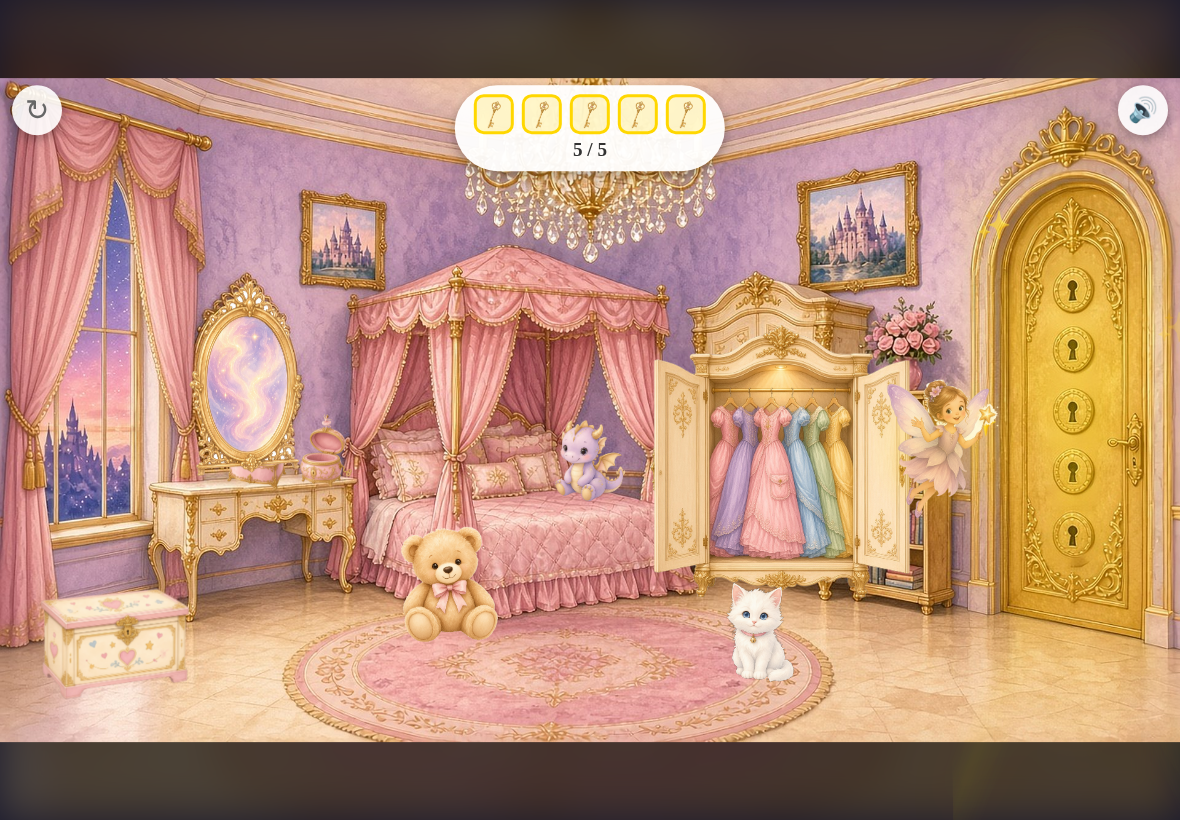
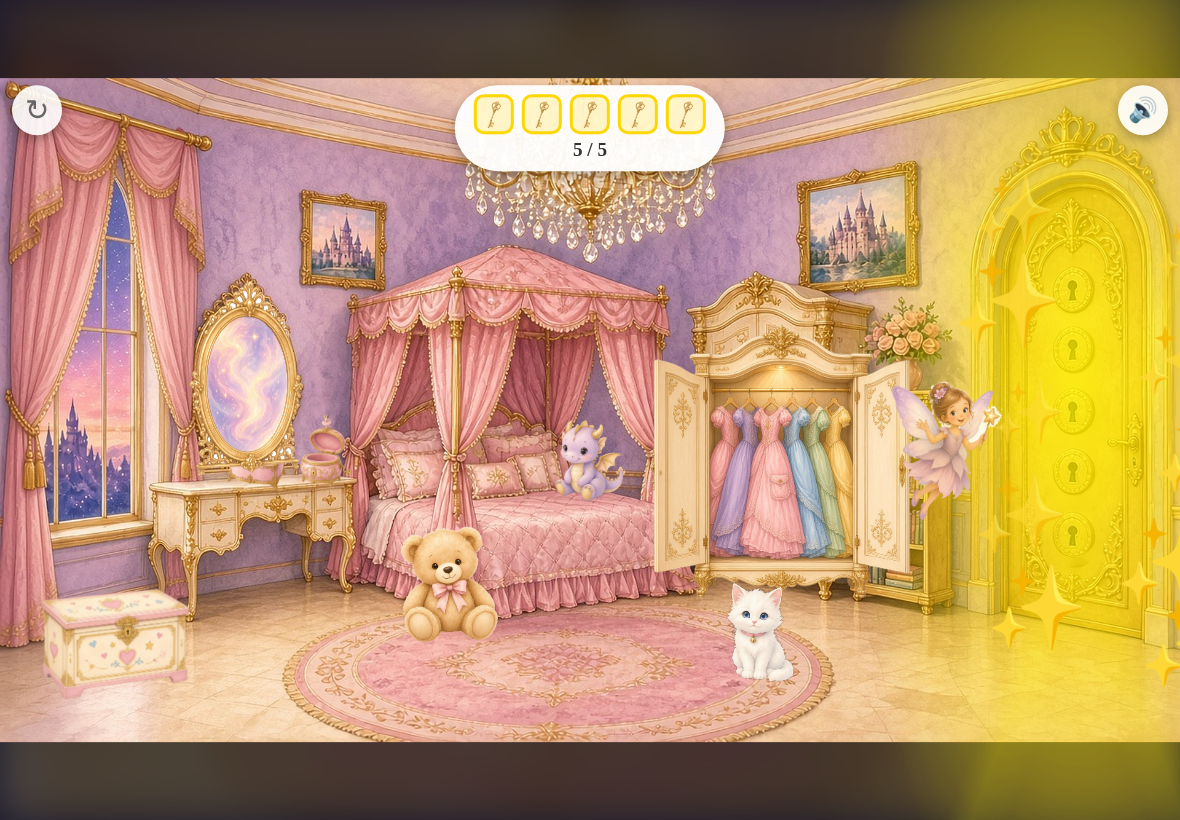
Enhance door glow visibility and fix 0.5s tap regression
Door glow improvements:
- Move radial bloom from z-index -2 to 14 (above bg, below door at z:15)
- Increase bloom size to 280% with more intense gradient (0.7 to 0 opacity)
- Boost brightness filter animation (1.25-1.6 vs 1.15-1.3)
- Enlarge drop-shadow halo (40-70px vs 20-30px)
- Make light rays 30% wider and 2x more opaque
- Scale pulse increased to 1.08 (from 1.04)
- Low point opacity now ~45% of peak (was ~57%)
- Add 10 large sparkle sprites (3-4.2rem) with staggered timing
- Glow now highly visible from across room at peak

Door tap timing fix:
- Update handleDoorClick to always set pendingDoorRef when totalKeys >= 5
- Add multiple pendingDoorRef checks in triggerDoorGlow (before fairy flight, during flight, after landing)
- Ensures early taps (including 0.5s) are remembered and processed
- Update test to wait for .glow-pulse class before starting timing countdown
- All timing tests now pass: 0.5s, 1s, 3s, 14s, muted

Screenshots:
- Crop door-glow-peak.png and door-glow-low.png to right third (393x820)
- Easier to judge glow intensity in cropped views

Changed region(s): [[0.7322, 0.0, 1.0, 1.0]]

diff --git a/game/src/components/GameScene.tsx b/game/src/components/GameScene.tsx
@@ -273,16 +273,41 @@ function GameScene({ progress, setProgress, onComplete }: GameSceneProps) {
     setDoorGlowing(true);
     audioManager.playSound('audio/sfx/door-glow-loop.mp3', true);
     
+    // Check for early door tap before fairy flies
+    if (pendingDoorRef.current && !unlockingRef.current) {
+      pendingDoorRef.current = false;
+      unlockDoor();
+      return;
+    }
+    
     // Start fairy flying to door after a brief moment
     await new Promise(resolve => setTimeout(resolve, 2000));
     setFairyCheer(false);
     setFairyFlyingToDoor(true);
     audioManager.playSound('audio/sfx/sparkle.mp3');
     
+    // Check for door tap during fairy flight
+    if (pendingDoorRef.current && !unlockingRef.current) {
+      pendingDoorRef.current = false;
+      // Let fairy finish flying
+      await new Promise(resolve => setTimeout(resolve, 1500));
+      setFairyFlyingToDoor(false);
+      setFairyAtDoor(true);
+      unlockDoor();
+      return;
+    }
+    
     // Wait for fairy to reach door (1.5s animation)
     await new Promise(resolve => setTimeout(resolve, 1500));
     setFairyFlyingToDoor(false);
     setFairyAtDoor(true);
+    
+    // Check again after fairy lands
+    if (pendingDoorRef.current && !unlockingRef.current) {
+      pendingDoorRef.current = false;
+      unlockDoor();
+      return;
+    }
     
     // Wait a bit more for total 6s (to let 5th-key praise finish)
     await new Promise(resolve => setTimeout(resolve, 2500));
@@ -573,11 +598,17 @@ function GameScene({ progress, setProgress, onComplete }: GameSceneProps) {
   const handleDoorClick = async () => {
     recordInteraction();
     
-    if (progressRef.current.keysFound.length === 5) {
-      await unlockDoor();
-    } else if (progressRef.current.keysFound.length + keysInFlightRef.current >= 5) {
-      // 5th key is still flying to the counter: open the door as soon as it lands
+    const totalKeys = progressRef.current.keysFound.length + keysInFlightRef.current;
+    
+    if (totalKeys >= 5) {
+      // Remember this tap - if unlocking can't start yet, triggerDoorGlow will handle it
       pendingDoorRef.current = true;
+      
+      // Try to unlock immediately if ready
+      if (progressRef.current.keysFound.length === 5 && !unlockingRef.current) {
+        pendingDoorRef.current = false;
+        await unlockDoor();
+      }
     } else {
       // Skip speech during intro
       if (introRunningRef.current) return;
@@ -890,48 +921,16 @@ function GameScene({ progress, setProgress, onComplete }: GameSceneProps) {
         {/* Sparkles around door when glowing */}
         {doorGlowing && (
           <>
-            <div 
-              className="door-sparkle"
-              style={{
-                position: 'absolute',
-                left: '83%',
-                top: '20%',
-                fontSize: '1.5rem',
-                animation: 'sparkle-twinkle 1.2s ease-in-out infinite',
-                pointerEvents: 'none',
-                zIndex: 100,
-              }}
-            >
-              ✨
-            </div>
-            <div 
-              className="door-sparkle"
-              style={{
-                position: 'absolute',
-                left: '98%',
-                top: '35%',
-                fontSize: '1.8rem',
-                animation: 'sparkle-twinkle 1.5s ease-in-out 0.3s infinite',
-                pointerEvents: 'none',
-                zIndex: 100,
-              }}
-            >
-              ✨
-            </div>
-            <div 
-              className="door-sparkle"
-              style={{
-                position: 'absolute',
-                left: '82%',
-                top: '50%',
-                fontSize: '1.3rem',
-                animation: 'sparkle-twinkle 1.8s ease-in-out 0.6s infinite',
-                pointerEvents: 'none',
-                zIndex: 100,
-              }}
-            >
-              ✨
-            </div>
+            <div className="door-sparkle" style={{ position: 'absolute', left: '83%', top: '15%', fontSize: '3.5rem', animation: 'sparkle-twinkle 1.2s ease-in-out 0s infinite', pointerEvents: 'none', zIndex: 100 }}>✨</div>
+            <div className="door-sparkle" style={{ position: 'absolute', left: '98%', top: '22%', fontSize: '3rem', animation: 'sparkle-twinkle 1.5s ease-in-out 0.15s infinite', pointerEvents: 'none', zIndex: 100 }}>✨</div>
+            <div className="door-sparkle" style={{ position: 'absolute', left: '82%', top: '28%', fontSize: '4rem', animation: 'sparkle-twinkle 1.3s ease-in-out 0.3s infinite', pointerEvents: 'none', zIndex: 100 }}>✨</div>
+            <div className="door-sparkle" style={{ position: 'absolute', left: '97%', top: '38%', fontSize: '3.2rem', animation: 'sparkle-twinkle 1.7s ease-in-out 0.45s infinite', pointerEvents: 'none', zIndex: 100 }}>✨</div>
+            <div className="door-sparkle" style={{ position: 'absolute', left: '84%', top: '45%', fontSize: '3.8rem', animation: 'sparkle-twinkle 1.4s ease-in-out 0.6s infinite', pointerEvents: 'none', zIndex: 100 }}>✨</div>
+            <div className="door-sparkle" style={{ position: 'absolute', left: '99%', top: '52%', fontSize: '3.3rem', animation: 'sparkle-twinkle 1.6s ease-in-out 0.75s infinite', pointerEvents: 'none', zIndex: 100 }}>✨</div>
+            <div className="door-sparkle" style={{ position: 'absolute', left: '83%', top: '60%', fontSize: '4.2rem', animation: 'sparkle-twinkle 1.35s ease-in-out 0.9s infinite', pointerEvents: 'none', zIndex: 100 }}>✨</div>
+            <div className="door-sparkle" style={{ position: 'absolute', left: '96%', top: '68%', fontSize: '3.6rem', animation: 'sparkle-twinkle 1.55s ease-in-out 1.05s infinite', pointerEvents: 'none', zIndex: 100 }}>✨</div>
+            <div className="door-sparkle" style={{ position: 'absolute', left: '85%', top: '75%', fontSize: '3.4rem', animation: 'sparkle-twinkle 1.45s ease-in-out 1.2s infinite', pointerEvents: 'none', zIndex: 100 }}>✨</div>
+            <div className="door-sparkle" style={{ position: 'absolute', left: '98%', top: '80%', fontSize: '3.7rem', animation: 'sparkle-twinkle 1.25s ease-in-out 1.35s infinite', pointerEvents: 'none', zIndex: 100 }}>✨</div>
           </>
         )}
         

diff --git a/game/src/components/GameScene.css b/game/src/components/GameScene.css
@@ -187,34 +187,34 @@
 /* Soft radial bloom behind door */
 @keyframes bloom-pulse {
   0%, 100% {
-    opacity: 0.4;
+    opacity: 0.5;
     transform: translate(-50%, -50%) scale(1.0);
   }
   50% {
-    opacity: 0.7;
-    transform: translate(-50%, -50%) scale(1.04);
+    opacity: 1.0;
+    transform: translate(-50%, -50%) scale(1.08);
   }
 }
 
 /* Door brightness pulse */
 @keyframes door-brightness-pulse {
   0%, 100% {
-    filter: brightness(1.15) saturate(1.2) drop-shadow(0 0 20px rgba(255, 215, 0, 0.6));
+    filter: brightness(1.25) saturate(1.3) drop-shadow(0 0 40px rgba(255, 215, 0, 0.9));
   }
   50% {
-    filter: brightness(1.3) saturate(1.3) drop-shadow(0 0 30px rgba(255, 215, 0, 0.9));
+    filter: brightness(1.6) saturate(1.6) drop-shadow(0 0 70px rgba(255, 215, 0, 1.0));
   }
 }
 
 /* Sparkle particles */
 @keyframes sparkle-twinkle {
   0%, 100% { 
-    opacity: 0.3;
+    opacity: 0.5;
     transform: scale(1);
   }
   50% { 
     opacity: 1;
-    transform: scale(1.3);
+    transform: scale(1.5);
   }
 }
 
@@ -237,24 +237,25 @@
   border-radius: 50% 50% 0 0 / 22% 22% 0 0;
 }
 
-/* Soft radial bloom (behind door, not covering it) */
+/* Soft radial bloom (above background, behind door) */
 .glow-pulse::before {
   content: '';
   position: absolute;
   top: 50%;
   left: 50%;
-  width: 200%;
-  height: 200%;
+  width: 280%;
+  height: 280%;
   background: radial-gradient(
     ellipse at 50% 50%,
-    rgba(255, 215, 0, 0.35) 0%,
-    rgba(255, 200, 0, 0.2) 20%,
-    rgba(255, 215, 0, 0.1) 40%,
-    transparent 60%
+    rgba(255, 215, 0, 0.7) 0%,
+    rgba(255, 200, 0, 0.5) 15%,
+    rgba(255, 215, 0, 0.35) 30%,
+    rgba(255, 215, 0, 0.2) 45%,
+    transparent 65%
   );
   animation: bloom-pulse 1s ease-in-out infinite;
   pointer-events: none;
-  z-index: -2;
+  z-index: 14;
   mix-blend-mode: screen;
 }
 
@@ -264,14 +265,14 @@
   position: absolute;
   top: 0;
   left: 50%;
-  width: 150%;
-  height: 150%;
+  width: 180%;
+  height: 180%;
   background: 
-    linear-gradient(to bottom right, transparent 45%, rgba(255, 215, 0, 0.15) 49%, rgba(255, 215, 0, 0.1) 51%, transparent 55%),
-    linear-gradient(to bottom left, transparent 45%, rgba(255, 215, 0, 0.15) 49%, rgba(255, 215, 0, 0.1) 51%, transparent 55%);
+    linear-gradient(to bottom right, transparent 45%, rgba(255, 215, 0, 0.3) 49%, rgba(255, 215, 0, 0.2) 51%, transparent 55%),
+    linear-gradient(to bottom left, transparent 45%, rgba(255, 215, 0, 0.3) 49%, rgba(255, 215, 0, 0.2) 51%, transparent 55%);
   animation: light-ray-sweep 1.5s ease-in-out infinite;
   pointer-events: none;
-  z-index: -1;
+  z-index: 15;
   mix-blend-mode: screen;
 }
 
